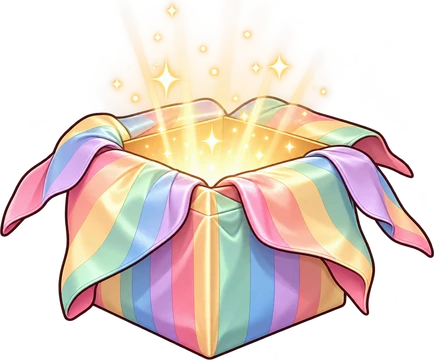
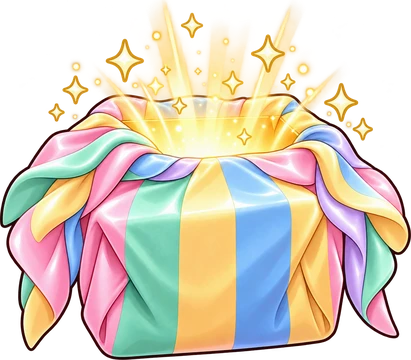
배포: v0.9.442 깜짝 선물 풀린 보자기 — 묶인 모양 그대로 매듭만 풀림

diff --git a/index.html b/index.html
@@ -2946,7 +2946,7 @@
   const elTitle = document.getElementById("overTitle");
   const coinNote = document.getElementById("coinNote");
 
-  const GAME_VERSION = "v0.9.441";
+  const GAME_VERSION = "v0.9.442";
   /* 제작사 스플래시(bamhobak friends 로고) — 2026-09-20 끔. 다시 켜려면 true */
   const SPLASH_USE = false;   // 코드를 고칠 때마다 뒤 두 자리를 올린다
   document.getElementById("ver").textContent = GAME_VERSION;
@@ -5516,7 +5516,7 @@
             augList.appendChild(c);
           });
           const bj = document.createElement("div"); bj.className = "bjStage";
-          bj.innerHTML = '<img class="bjO" src="assets/ui/bj_open.webp" alt=""><img class="bjC" src="assets/ui/bj_closed.webp" alt="">';
+          bj.innerHTML = '<img class="bjO" src="assets/ui/bj_open.webp?2" alt=""><img class="bjC" src="assets/ui/bj_closed.webp" alt="">';
           augList.appendChild(bj);
           setTimeout(() => { if (state === STATE.AUG && !augSkipping) beep(520, .06, "triangle", .05); }, BJ_OPEN * 1000 - 60);   // 풀리는 소리
           { const cy = bj.offsetTop + bj.offsetHeight * 0.45;   // 카드는 보자기 속에서 출발 (offsetTop 은 애니메이션 변형과 무관)
